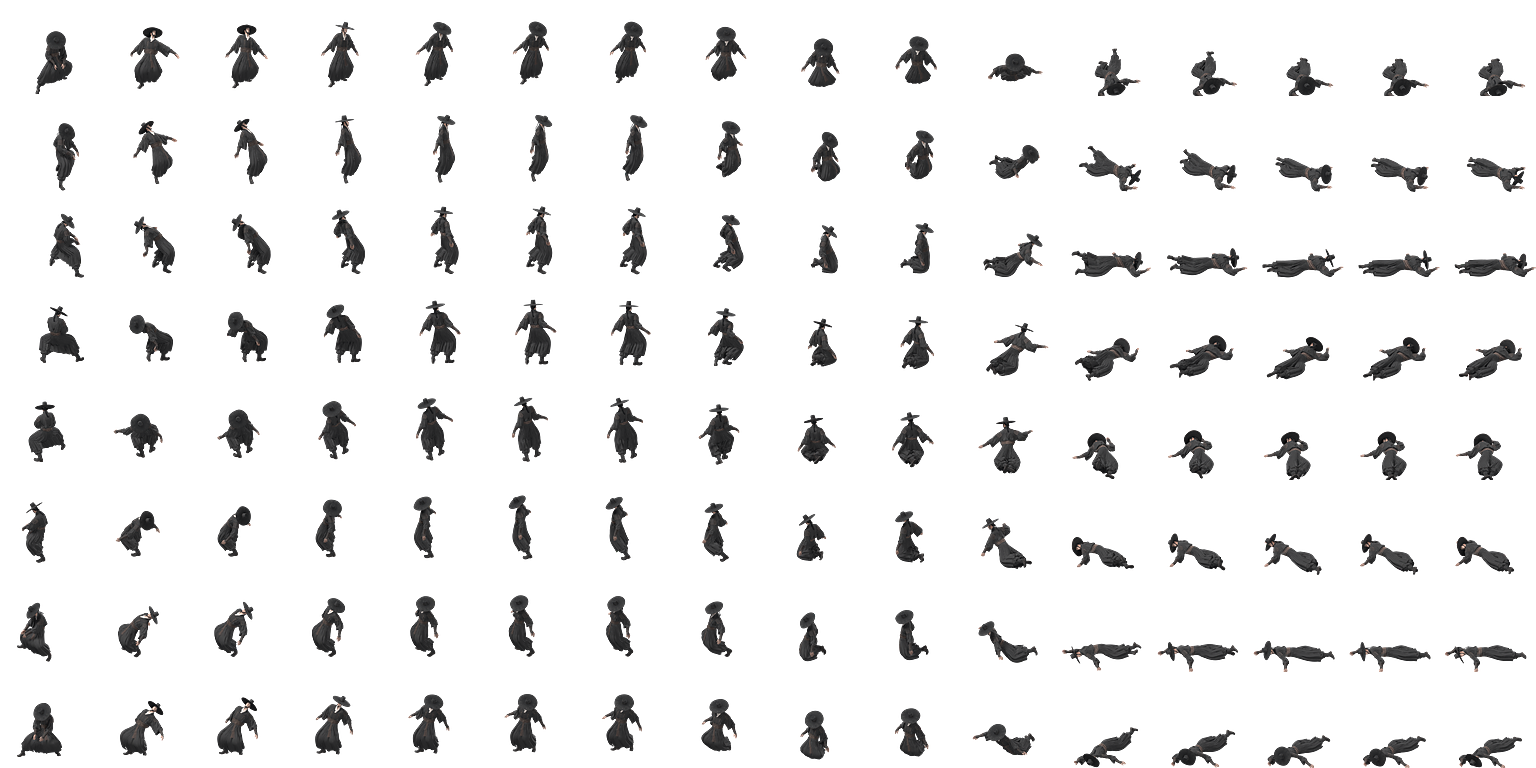
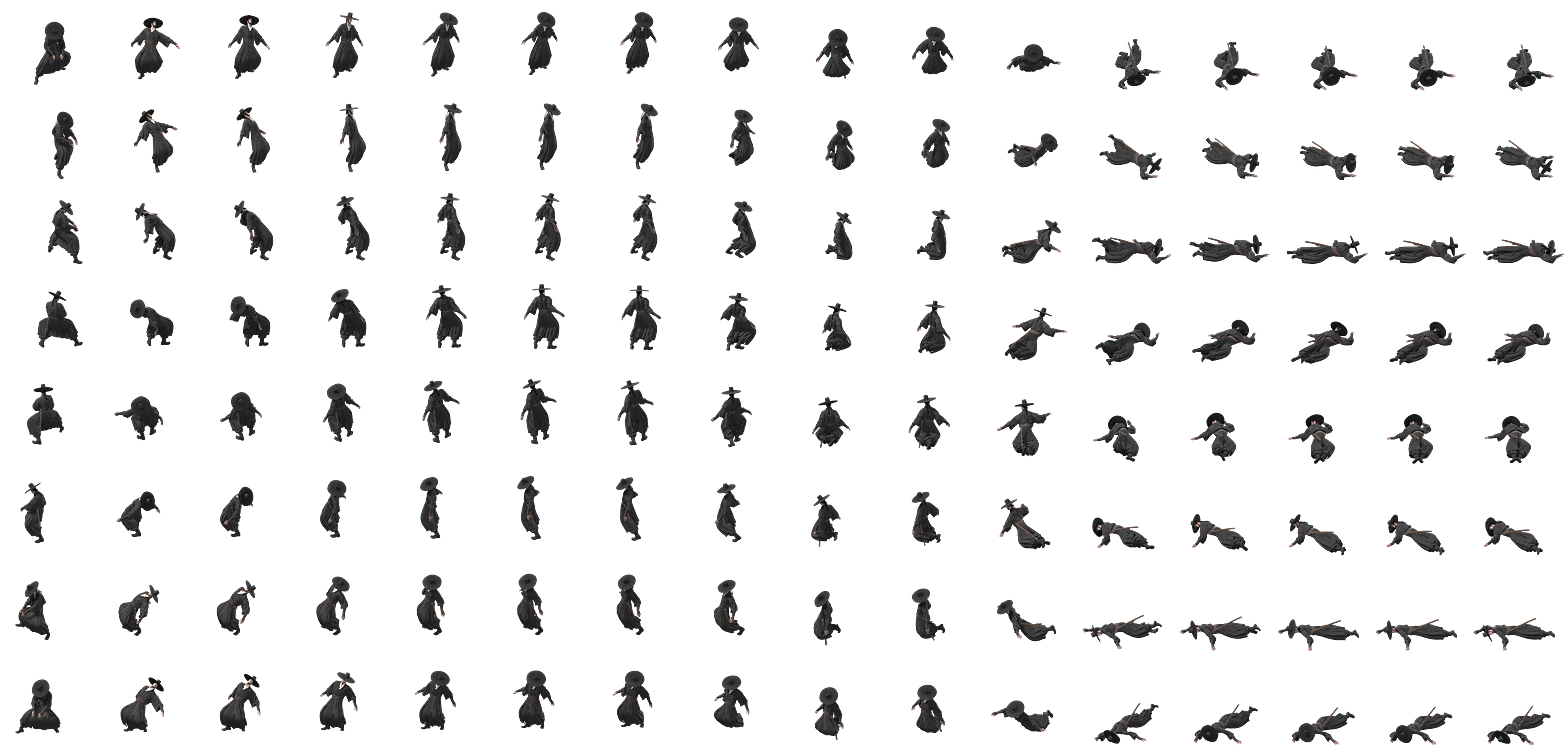
walk: 캐릭터 시트 재발행 — 환도·뽑은 도 + 동작별 크롭
흰도포는 2 차 리깅본(player_1)으로 교체, 1 차 리깅본(player)은 제거. 두 캐릭터 모두 왼쪽
허리에 환도를 차고 공격 때 도를 뽑는다. 셀 크기·앵커가 동작마다 달라져(공격 130×136,
걷기 60×83) 페이지가 매니페스트에서 읽어 그리고, 캐릭터는 캔버스에 직접 그린다.
옛 시트의 앵커 (+6.5, +6.5) 어긋남도 함께 고쳤다.

Claude-Session: https://claude.ai/code/session_01BSsbTHfDHWSRe2aEjogxbZ

diff --git a/walk/walk.html b/walk/walk.html
@@ -46,7 +46,7 @@ h1{font-family:var(--display);font-size:22px;font-weight:700;margin:0;letter-spa
 #stage img,#stage div,#stage canvas{position:absolute;image-rendering:pixelated}
 #floor{left:0;top:0;z-index:-10}
 #grid{left:0;top:0;pointer-events:none;z-index:900000}
-#shadow,#hero{width:96px;height:96px;background-repeat:no-repeat}
+#shadow,#hero{display:block}
 #shadow{z-index:-5;pointer-events:none}
 #marker{width:48px;height:24px;pointer-events:none;z-index:899000;border-radius:50%;
   border:2px solid var(--accent);opacity:0;transition:opacity .25s}
@@ -94,8 +94,8 @@ footer{display:flex;flex-wrap:wrap;gap:7px 8px;align-items:center;
     <img id="floor" alt="">
     <canvas id="grid"></canvas>
     <div id="marker"></div>
-    <div id="shadow"></div>
-    <div id="hero"></div>
+    <canvas id="shadow"></canvas>
+    <canvas id="hero"></canvas>
   </div>
   <div id="crosshair"></div>
 </div>
@@ -111,7 +111,7 @@ footer{display:flex;flex-wrap:wrap;gap:7px 8px;align-items:center;
 
 <script>
 const DIRS = ["s","se","e","ne","n","nw","w","sw"];
-const CELL = 96, SCOLS = 16, SROWS = 8, ANCH = [44, 72];
+// 시트는 행 = 8 방향, 열 = 프레임. 셀 크기·앵커·프레임 수는 동작마다 달라 매니페스트에서 읽는다
 const ACT = {idle:{ko:"대기",loop:true,fps:10}, walk:{ko:"걷기",loop:true,fps:14},
              run:{ko:"달리기",loop:true,fps:18}, attack:{ko:"공격",loop:false,fps:16},
              jab:{ko:"잽",loop:false,fps:16}, dead:{ko:"쓰러짐",loop:false,fps:12}};
@@ -245,43 +245,79 @@ function frame(now){
   } else if (!S.once && S.act !== "idle"){ S.act = "idle"; S.f = 0; S.t = 0; }
 
   const a = ACT[S.act];
+  let E = ENTRY(S.ch, S.act), NF = E ? E.frames : 1;
   S.t += dt*a.fps;
   while (S.t >= 1){
     S.t -= 1;
-    if (a.loop) S.f = (S.f+1) % SCOLS;
-    else if (S.f < SCOLS-1) S.f++;
+    if (a.loop) S.f = (S.f+1) % NF;
+    else if (S.f < NF-1) S.f++;
     else if (S.once === "attack" || S.once === "jab"){ S.once = null; S.act = "idle"; S.f = 0; }
   }
+  // 위 루프에서 동작이 바뀔 수 있다. 셀 크기·앵커·프레임 수는 동작마다 다르므로 여기서 다시 읽는다 —
+  // 옛 동작의 셀 크기로 새 동작 시트를 그리면 그 한 프레임 동안 시트가 통째로 펼쳐져 보인다.
+  E = ENTRY(S.ch, S.act); NF = E ? E.frames : 1;
+  if (S.f >= NF) S.f = NF-1;
 
-  const c = tileCenter(S.fi, S.fj);
-  const L = (c[0]-ANCH[0])+"px", T = (c[1]-ANCH[1])+"px";
-  const bs = (CELL*SCOLS)+"px "+(CELL*SROWS)+"px";
-  const bp = (-S.f*CELL)+"px "+(-DIRS.indexOf(S.dir)*CELL)+"px";
-  hero.style.left = L; hero.style.top = T;
-  hero.style.zIndex = String(Math.round((S.fi+S.fj)*100 + S.fj));
-  hero.style.backgroundImage = "url("+SHEET(S.ch, S.act)+")";
-  hero.style.backgroundSize = bs; hero.style.backgroundPosition = bp;
-
-  const sh = SHEET(S.ch, S.act, true);
+  const c = tileCenter(S.fi, S.fj), row = DIRS.indexOf(S.dir);
+  place(hero, E, SHEET(S.ch, S.act), c, row, S.f, false,
+        String(Math.round((S.fi+S.fj)*100 + S.fj)));
+  const sh = E && E.shadow ? SHEET(S.ch, S.act, true) : null;
   shadowEl.hidden = !sh;
-  if (sh){
-    shadowEl.style.left = L; shadowEl.style.top = T;
-    shadowEl.style.backgroundImage = "url("+sh+")";
-    shadowEl.style.backgroundSize = bs; shadowEl.style.backgroundPosition = bp;
-  }
+  if (sh) place(shadowEl, E, sh, c, row, S.f, true, null);
   camera();
 
   document.getElementById("r-tile").textContent = Math.round(S.fi)+", "+Math.round(S.fj);
-  document.getElementById("r-act").textContent = a.ko;
+  document.getElementById("r-act").textContent = ACT[S.act].ko;   // a 는 루프 앞 값이라 바뀐 동작을 못 따라간다
   document.getElementById("r-dir").textContent = S.dir.toUpperCase();
   document.getElementById("r-path").textContent = S.path.length;
   requestAnimationFrame(frame);
 }
 
+function ENTRY(ch, act){ return CHARS[ch] && CHARS[ch].actions[act]; }
+
+// 동작마다 셀 크기가 다르므로, 새 시트가 아직 안 받아진 채로 동작이 바뀌면 브라우저가
+// **옛 시트를 새 셀 크기로 늘려** 한순간 그린다 (캐릭터가 확 커졌다 돌아온다).
+// 시작할 때 전부 받아 두면 교체가 즉시 일어난다.
+const IMG = new Map();
+function sheetImage(url){
+  let im = IMG.get(url);
+  if (!im){ im = new Image(); im.src = url; IMG.set(url, im); }
+  return im;
+}
+function preloadSheets(){
+  for (const ch of Object.keys(CHARS))
+    for (const act of Object.keys(CHARS[ch].actions))
+      for (const shadow of [false, true]){
+        const url = SHEET(ch, act, shadow);
+        if (url) sheetImage(url);
+      }
+}
+
+// 셀 크기·앵커가 동작마다 다르므로 그릴 때마다 요소 크기와 배경 배치를 다시 잡는다.
+// 앵커는 "셀 안에서 지면 원점이 있는 자리" 라 타일 접지점에서 앵커만큼 빼면 제자리에 놓인다.
+// CSS 배경으로 그리면 이미지 교체와 셀 크기 변경이 **원자적이지 않다** — 동작이 바뀌는 순간
+// 브라우저가 옛 시트를 새 셀 크기로 늘려 한 프레임 그리고(시트가 펼쳐져 보인다), 시트가 클수록
+// 오래 남는다. 캔버스에 직접 한 칸만 그리면 그 틈이 없다. 덜 받아진 시트는 그냥 건너뛴다.
+function place(el, E, url, c, row, f, shadow, z){
+  if (!E || !url) return;
+  const im = sheetImage(url);
+  if (!im.complete || !im.naturalWidth) return;
+  const cv = shadow ? E.shadow_canvas : E.canvas;
+  const an = shadow ? E.shadow_anchor : E.anchor;
+  if (el.width !== cv[0] || el.height !== cv[1]){ el.width = cv[0]; el.height = cv[1]; }
+  const ctx = el.getContext("2d");
+  ctx.imageSmoothingEnabled = false;
+  ctx.clearRect(0, 0, cv[0], cv[1]);
+  ctx.drawImage(im, f*cv[0], row*cv[1], cv[0], cv[1], 0, 0, cv[0], cv[1]);
+  el.style.left = (c[0]-an[0])+"px"; el.style.top = (c[1]-an[1])+"px";
+  if (z !== null) el.style.zIndex = z;
+}
+
 function SHEET(ch, act, shadow){
   const e = CHARS[ch] && CHARS[ch].actions[act];
   if (!e) return null;
-  return "chars/" + ch + "/" + (shadow ? e.shadow : e.file);
+  const f = shadow ? e.shadow : e.file;
+  return f ? "chars/" + ch + "/" + f : null;
 }
 
 let CHARS;
@@ -306,6 +342,7 @@ Promise.all([fetch("walk.json").then(r=>r.json()), fetch("chars.json").then(r=>r
     stage.appendChild(im);
   }
   floorEl.src = FLOORS[0];
+  preloadSheets();
   document.getElementById("r-walk").textContent = WALK.flat().reduce((a,b)=>a+b,0);
 
   tabs(document.getElementById("who"),
